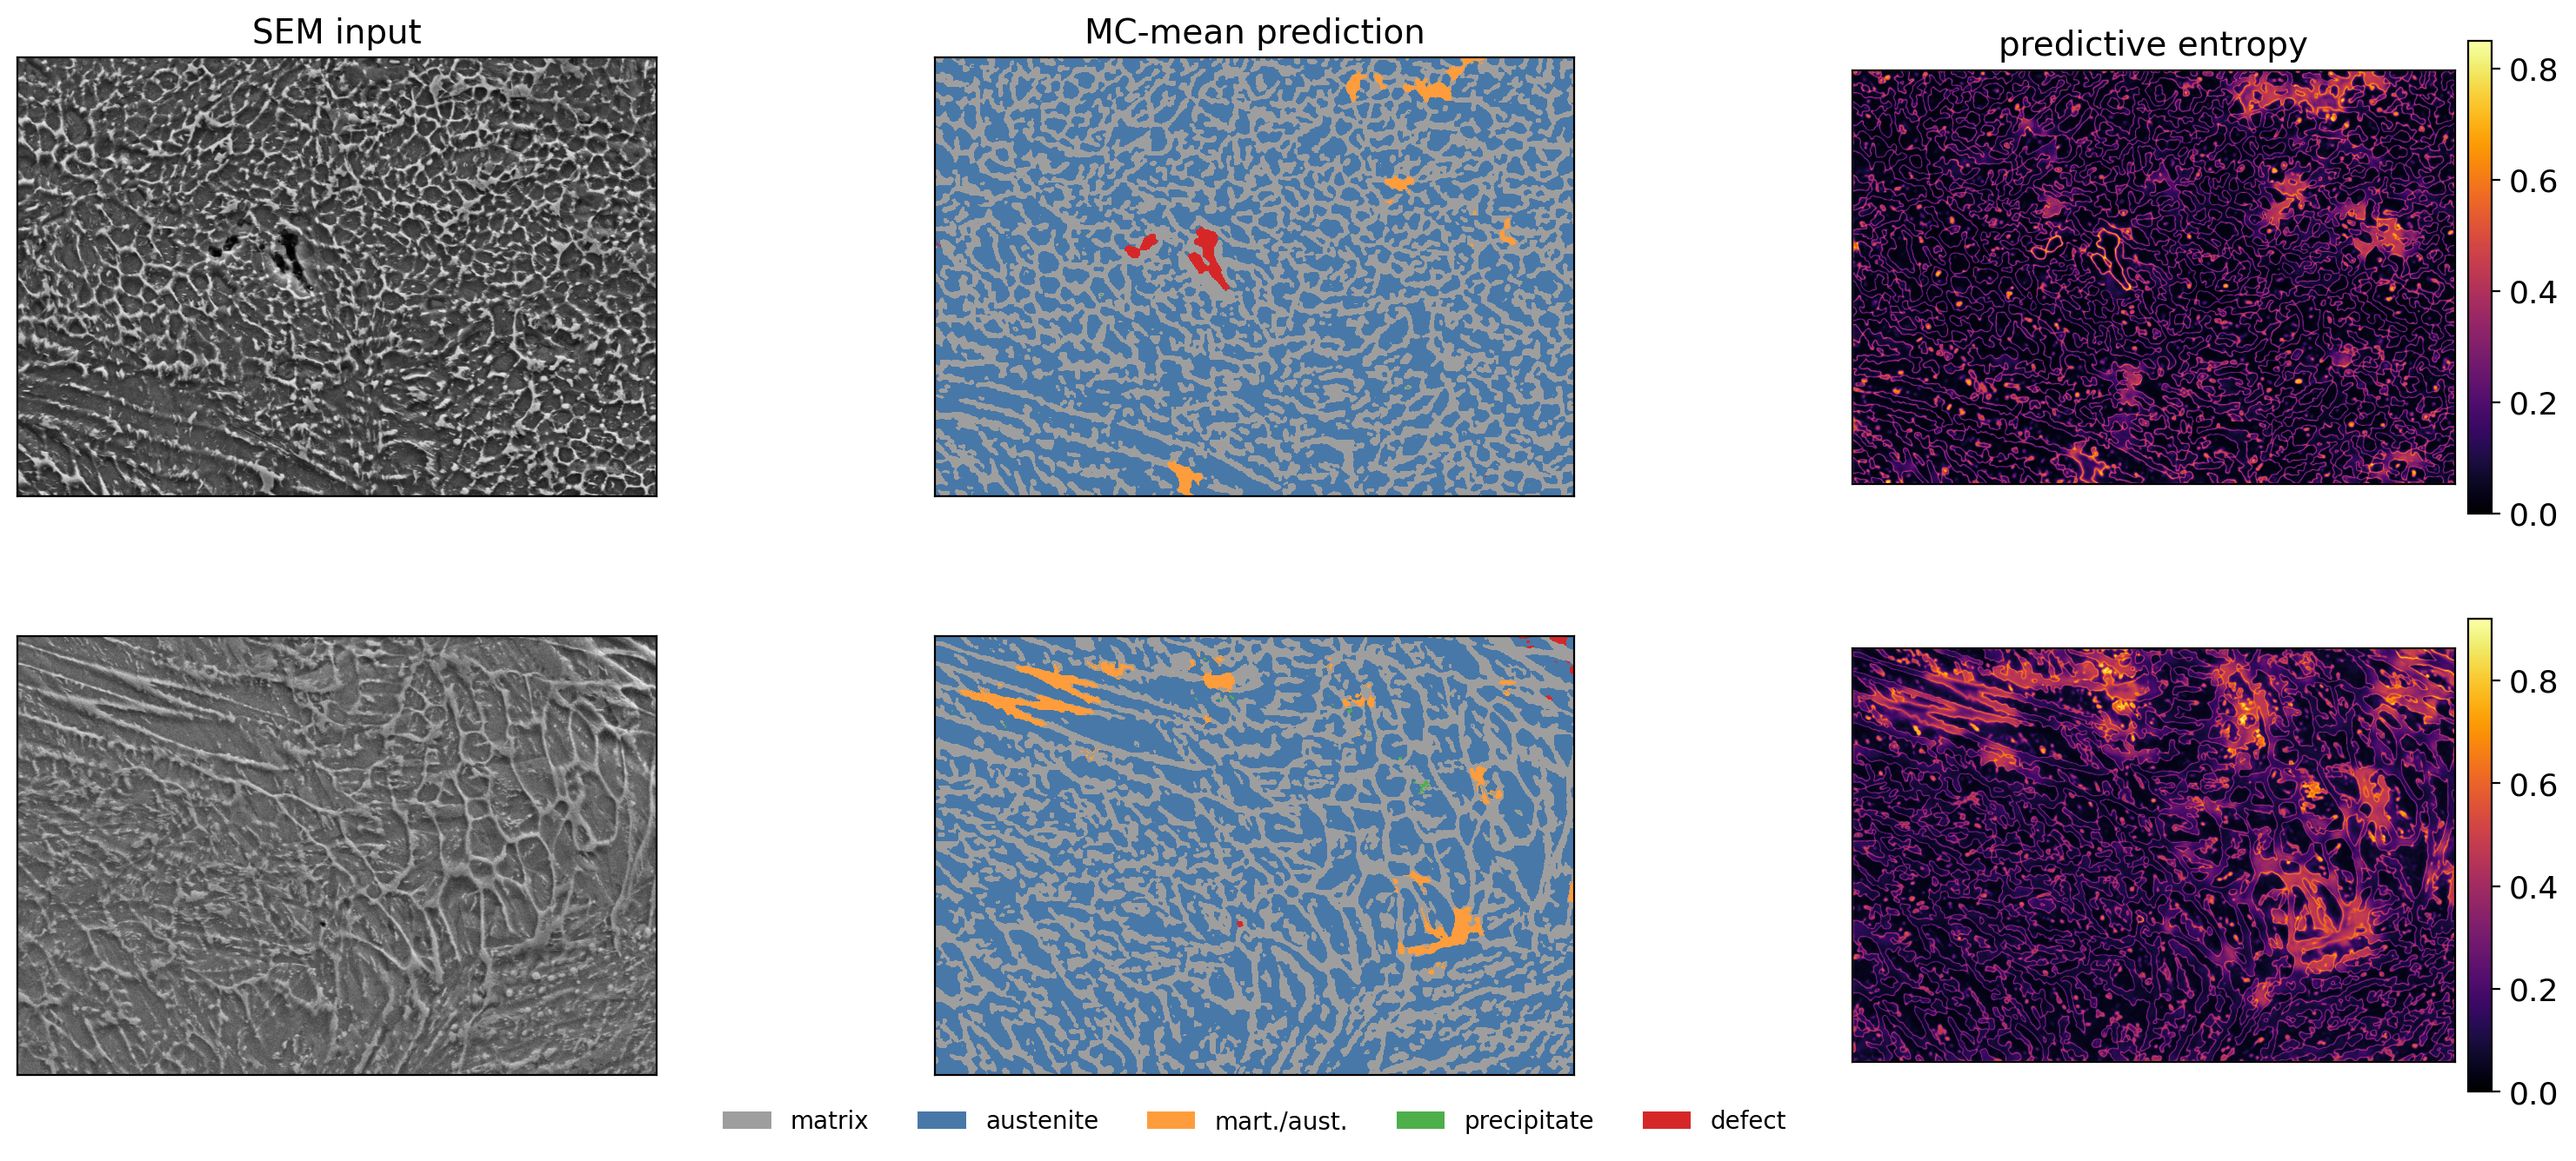
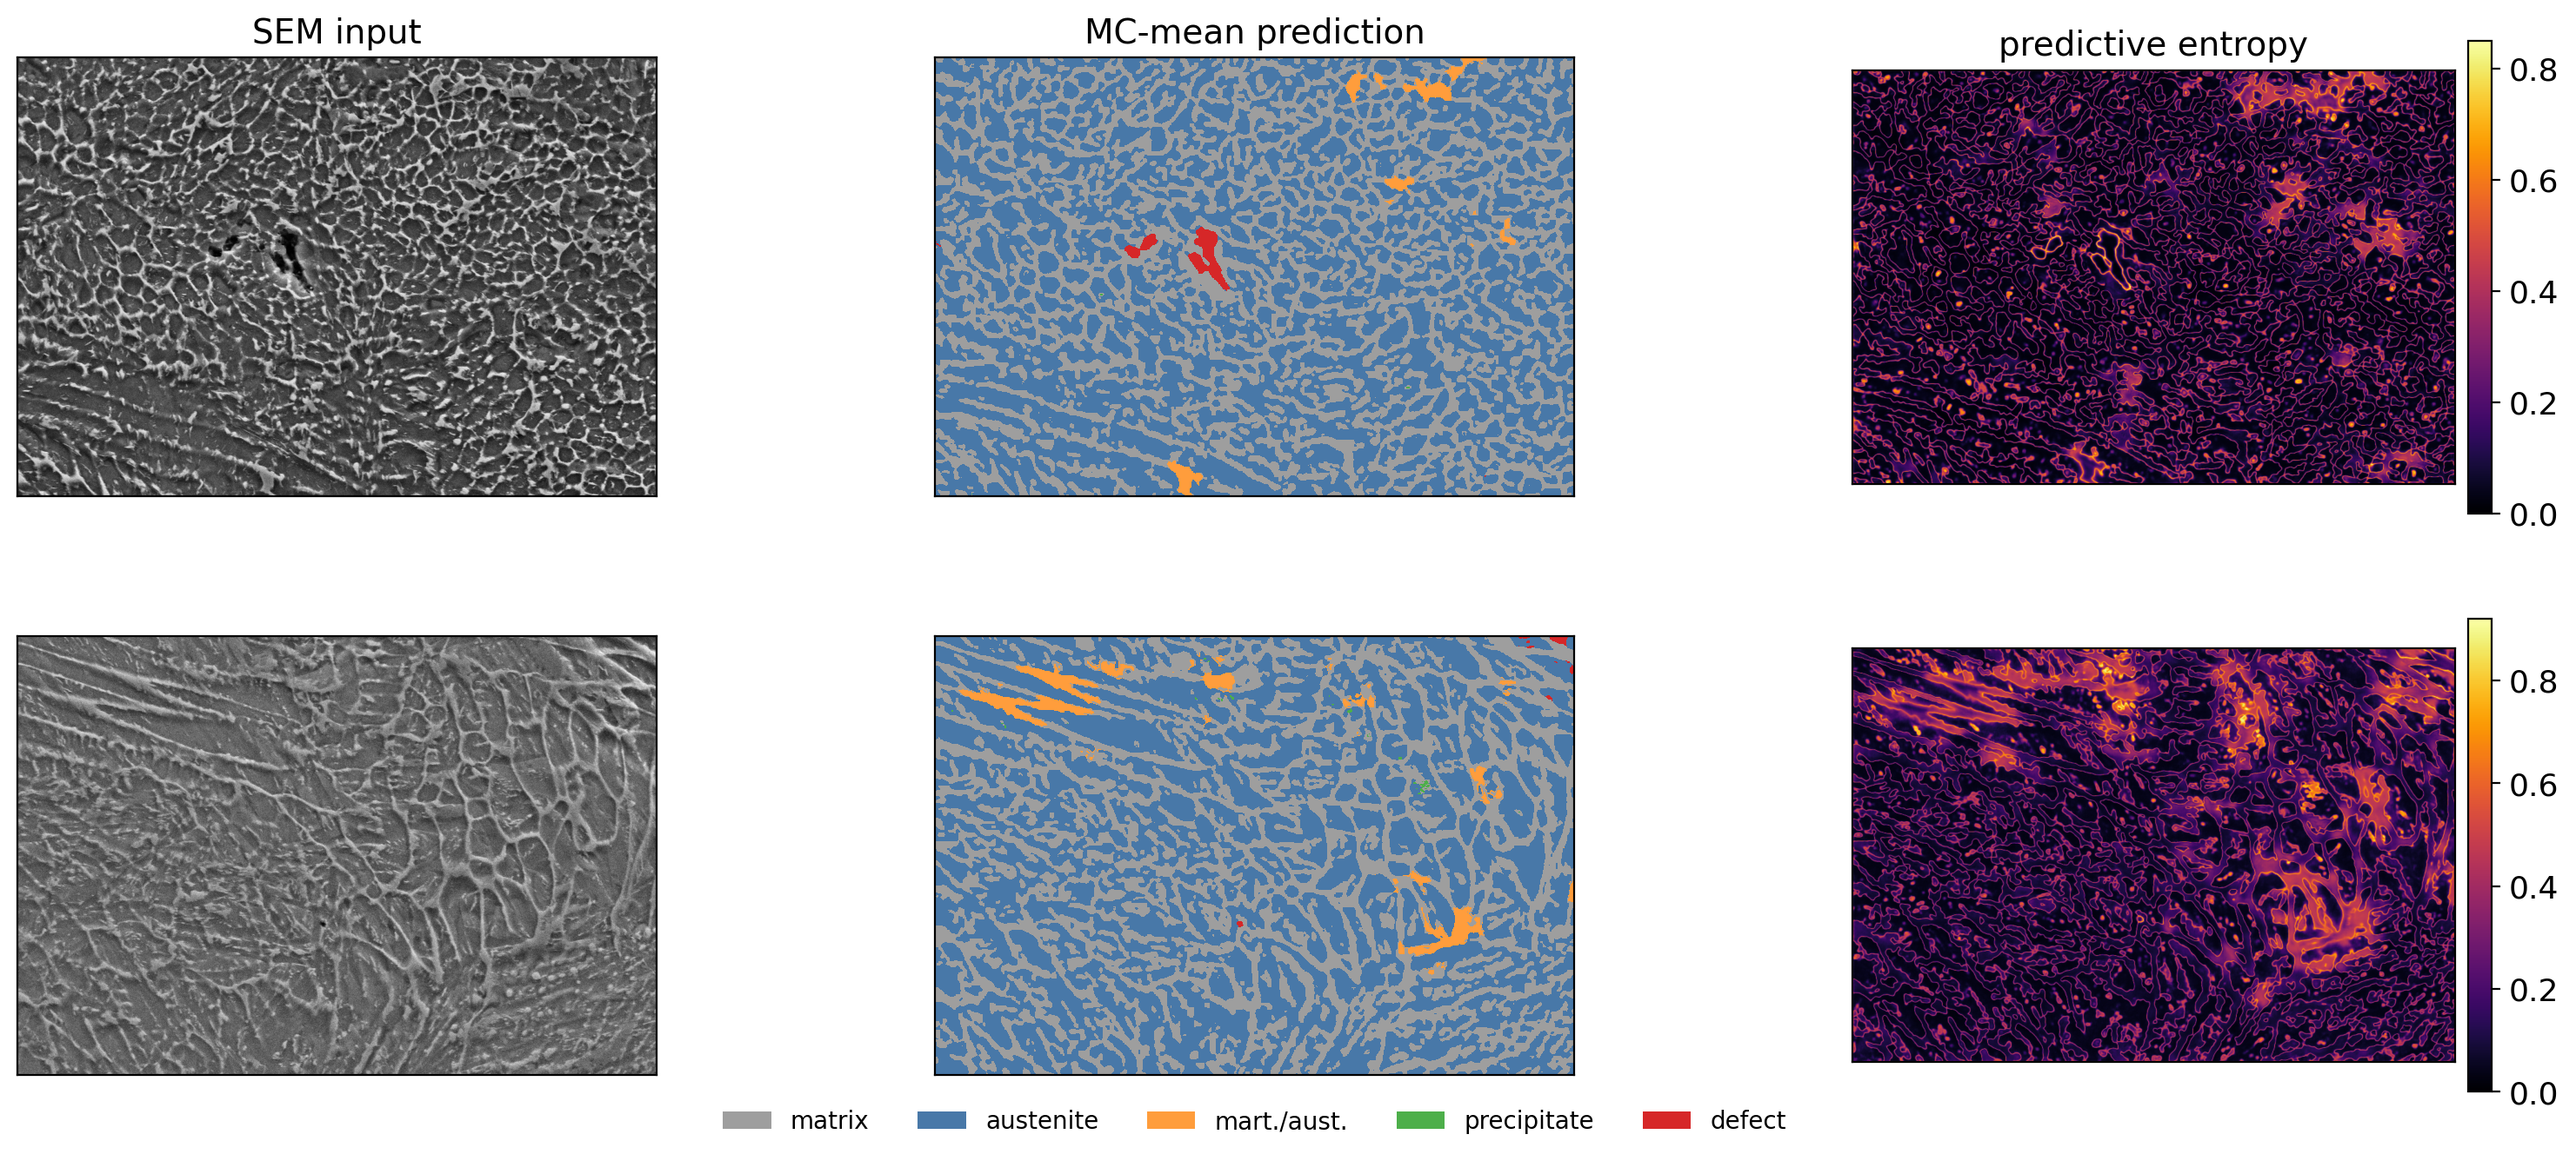
Polish ML-PC unit 12 case-study slides
Restructure the AL result into a visual slide (22) plus a headline-numbers
slide (23), tighten panel captions, rework the MC-Dropout operating-curve
slide layout, and regenerate the MC-Dropout figures.

diff --git a/ml_for_characterization_and_processing/unit12_uncertainty_gp/make_mcdropout_figures.py b/ml_for_characterization_and_processing/unit12_uncertainty_gp/make_mcdropout_figures.py
@@ -8,15 +8,15 @@ such on the slide.
 
 Run from the unit folder with the repo venv:
     ../../.venv/bin/python make_mcdropout_figures.py
-Downloads MetalDAM into data_metaldam/ on first run (~100 MB, GitHub
-release of ari-dasci/OD-MetalDAM). Writes PNGs into images/ and prints
-the measured numbers quoted on the slides.
+Data loading goes through the course package (pip install
+git+https://github.com/ECLIPSE-Lab/Ai4MatLectures), which downloads
+MetalDAM into data_metaldam/ on first run (~40 MB zip, GitHub release of
+ari-dasci/OD-MetalDAM). Writes PNGs into images/ and prints the measured
+numbers quoted on the slides. Students can reproduce the case study in
+the Week-13 notebook notebooks/MLPC/week13_mcdropout_metaldam.
 """
 
-import os
 import time
-import urllib.request
-import zipfile
 from pathlib import Path
 
 import numpy as np
@@ -25,7 +25,8 @@ import torch.nn as nn
 import torch.nn.functional as F
 import matplotlib.pyplot as plt
 from matplotlib.colors import ListedColormap
-from PIL import Image
+
+from ai4mat.datasets import MetalDAMDataset
 
 SEED = 0
 torch.manual_seed(SEED)
@@ -48,36 +49,13 @@ DEFECT = 4
 CLASS_COLORS = ["#9e9e9e", "#4878a8", "#ff9d3c", "#4daf4a", "#d62728"]
 CLS_CMAP = ListedColormap(CLASS_COLORS)
 
-DATA_DIR = Path("data_metaldam")
-URL = ("https://github.com/ari-dasci/OD-MetalDAM/releases/download/1.0/"
-       "MetalDAM_labeled.zip")
-
 # ---------------------------------------------------------------- data
-def fetch_data():
-    if not (DATA_DIR / "MetalDAM" / "images").exists():
-        DATA_DIR.mkdir(exist_ok=True)
-        zp = DATA_DIR / "MetalDAM_labeled.zip"
-        if not zp.exists():
-            print("downloading MetalDAM ...")
-            urllib.request.urlretrieve(URL, zp)
-        with zipfile.ZipFile(zp) as z:
-            z.extractall(DATA_DIR)
-
-
 def load_images():
-    imgs, labs, names = [], [], []
-    img_dir = DATA_DIR / "MetalDAM" / "images"
-    lab_dir = DATA_DIR / "MetalDAM" / "labels"
-    for f in sorted(img_dir.iterdir()):
-        lab = np.array(Image.open(lab_dir / (f.stem + ".png")))
-        if lab.ndim == 3:  # one file ships as RGB with identical channels
-            lab = lab[..., 0]
-        img = np.array(Image.open(f).convert("L")).astype(np.float32) / 255.0
-        img = img[: lab.shape[0], : lab.shape[1]]  # crop info band
-        imgs.append(img)
-        labs.append(lab.astype(np.int64))
-        names.append(f.stem)
-    return imgs, labs, names
+    """Load MetalDAM through the ai4mat course package (auto-downloads)."""
+    ds = MetalDAMDataset(root="data_metaldam", download=True)
+    imgs = [im[0].numpy() for im in ds.images]   # (H, W) float32 in [0, 1]
+    labs = [m.numpy() for m in ds.masks]         # (H, W) int64 in {0..4}
+    return imgs, labs, ds.names
 
 
 def simulate_tool_shift(img):
@@ -269,7 +247,6 @@ def reliability(conf, correct, n_bins=15):
 
 # =====================================================================
 def main():
-    fetch_data()
     imgs, labs, names = load_images()
     order = rng.permutation(len(imgs))
     tr_idx, cal_idx, te_idx = order[:30], order[30:34], order[34:]
